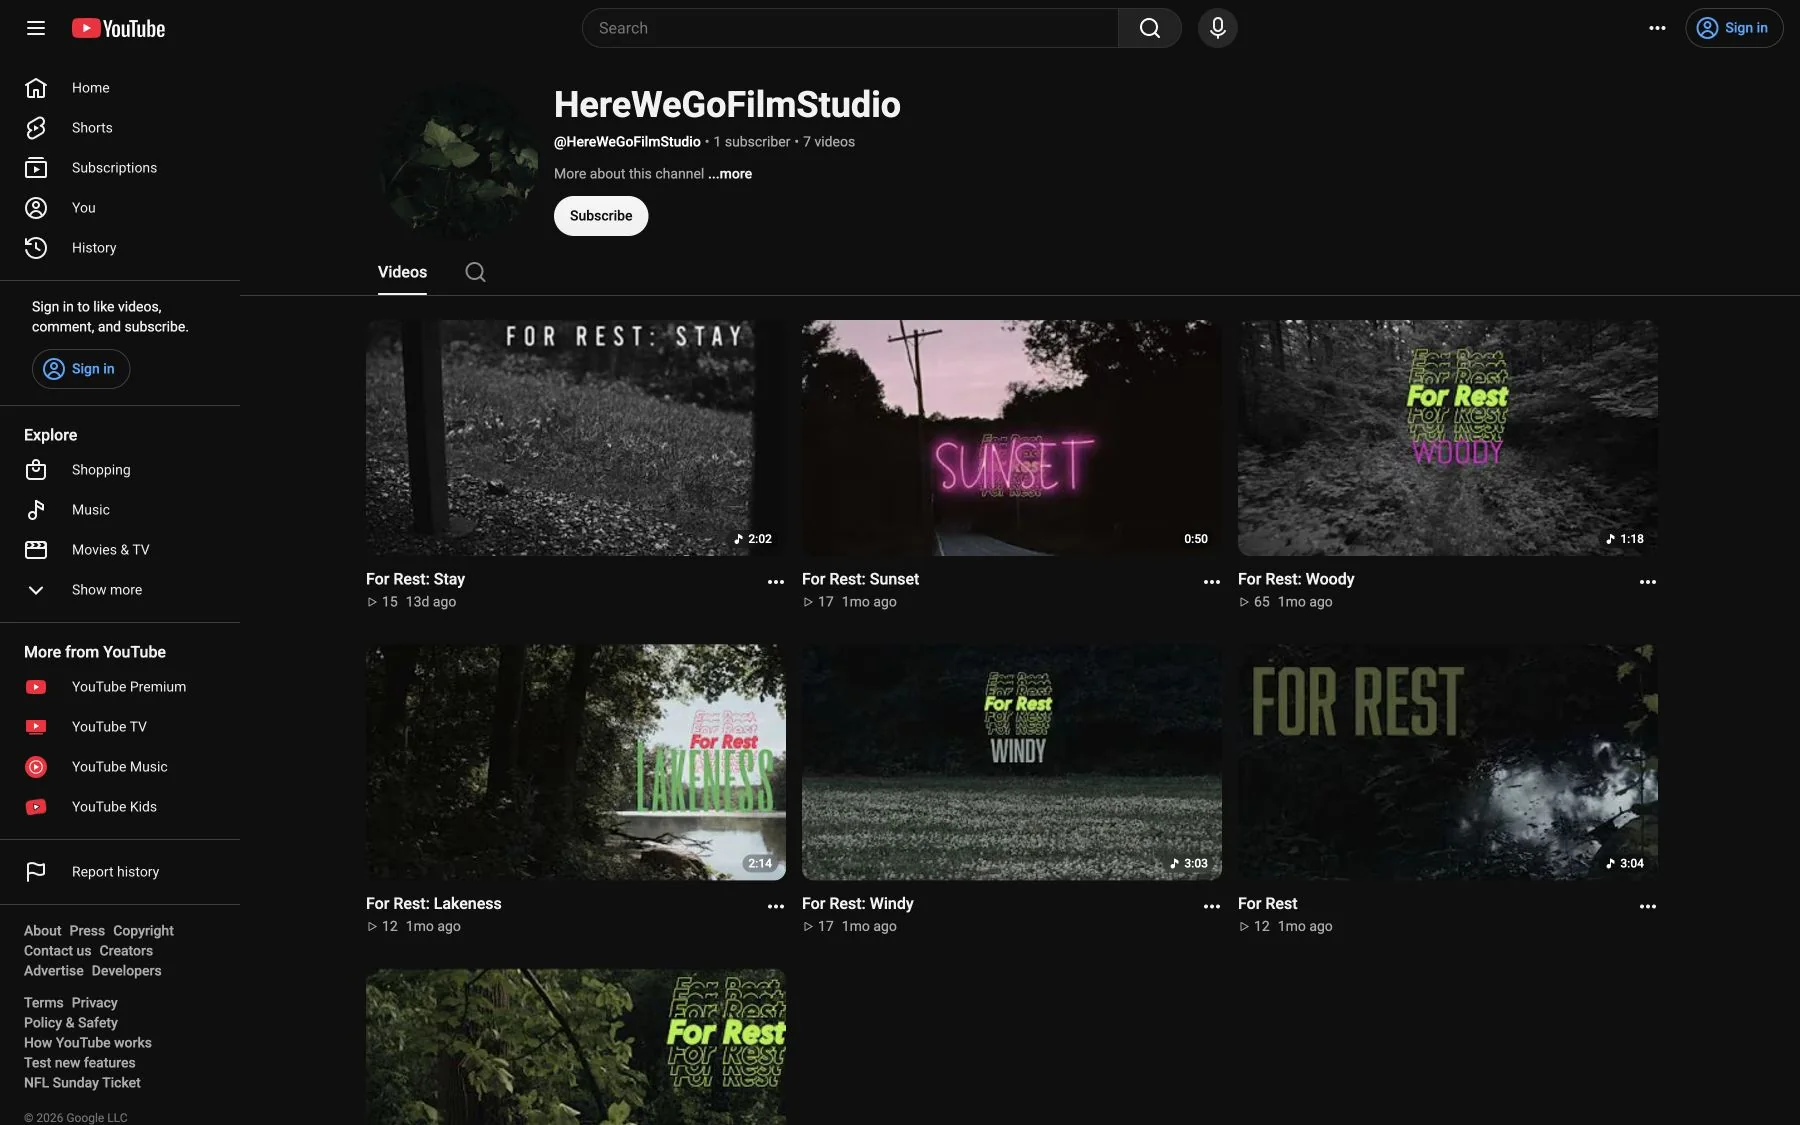
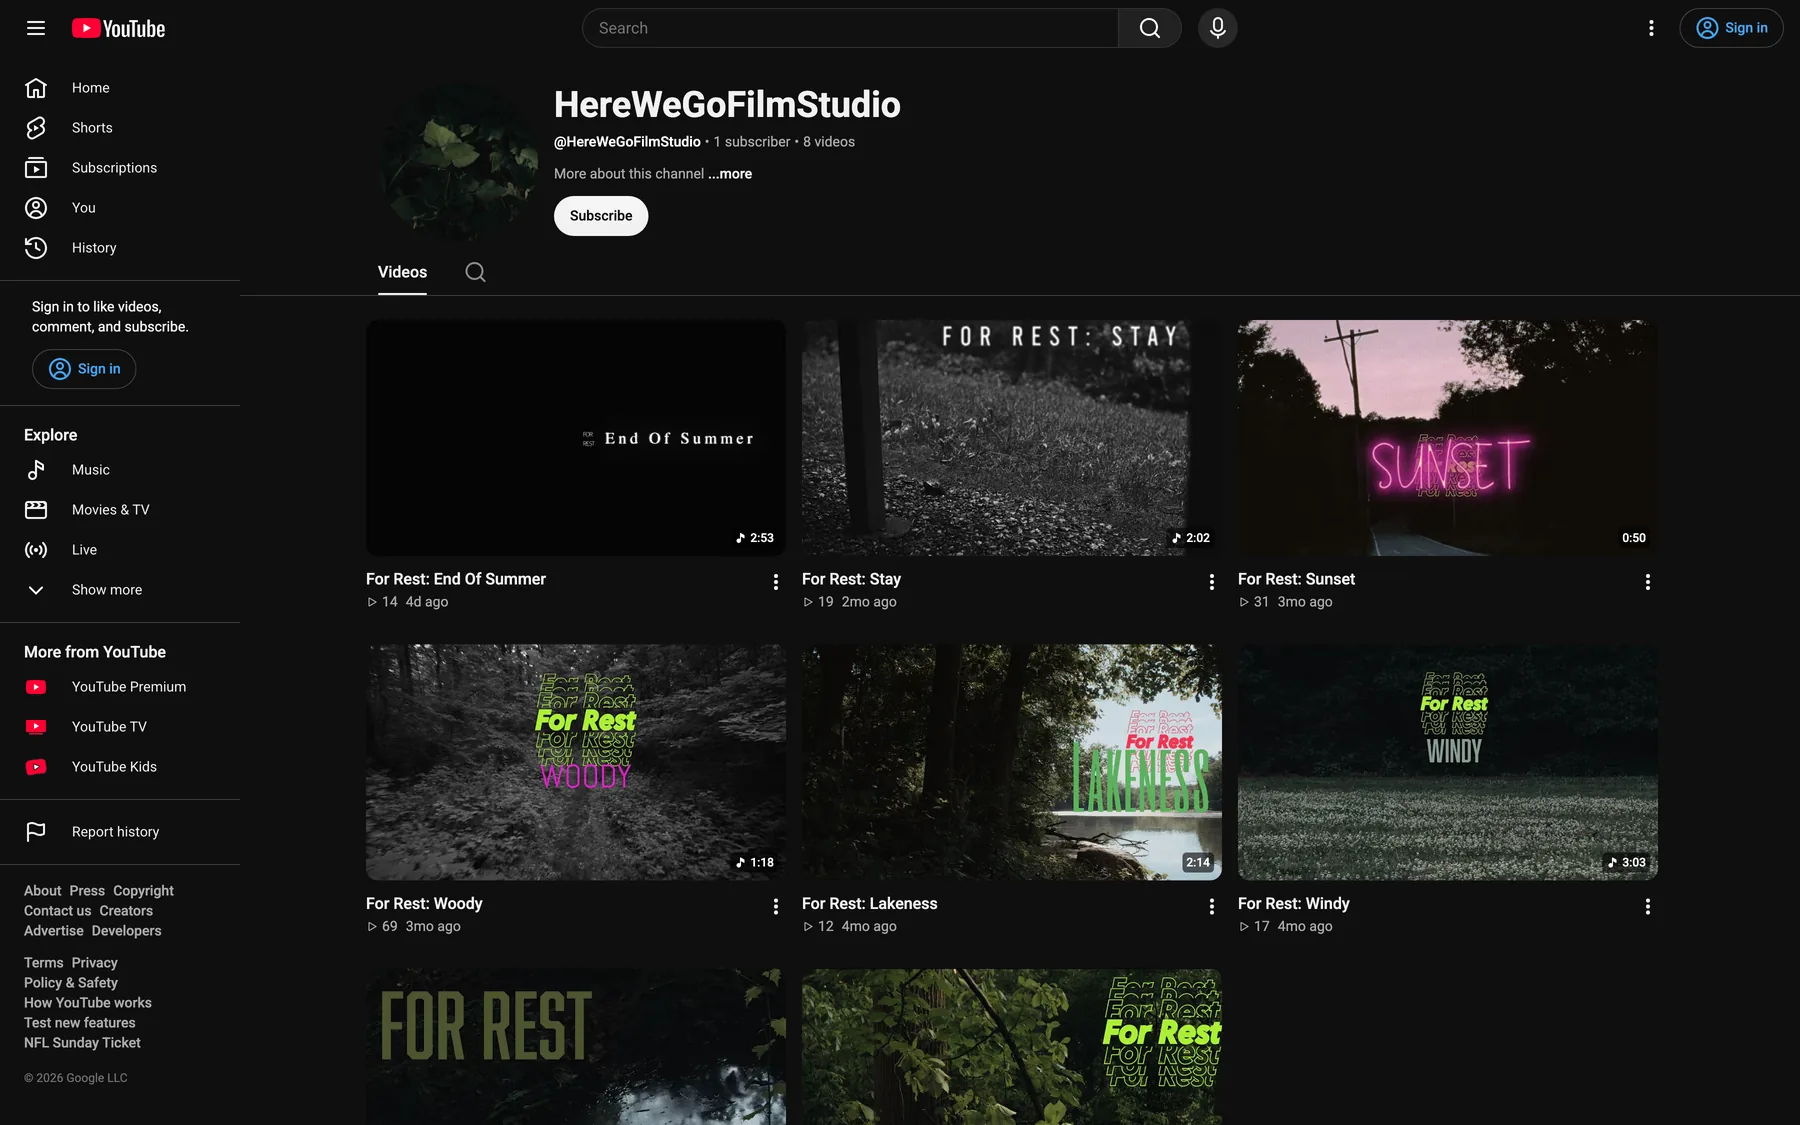
Move Here We Go to third and open the channel from its screenshot
- Here We Go Film Studio now follows Surge, on the home screen and in
  the "Up next" order
- Fresh channel screenshot with the new "For Rest: End Of Summer"
  (8 videos)
- Gallery media can link somewhere other than their own file: the
  channel screenshot opens the YouTube channel ("Open the channel ↗")
  instead of the image

diff --git a/app/projects.ts b/app/projects.ts
@@ -78,7 +78,7 @@ export type Project = {
     principles: { title: string; body: string }[];
   };
   features: { title: string; body: string }[];
-  media: { type: "image" | "video" | "youtube"; src: string; displaySrc?: string; alt: string; caption?: string; portrait?: boolean; width?: number; height?: number; chrome?: boolean; poster?: string; gallery?: boolean }[];
+  media: { type: "image" | "video" | "youtube"; src: string; displaySrc?: string; alt: string; caption?: string; portrait?: boolean; width?: number; height?: number; chrome?: boolean; poster?: string; gallery?: boolean; /** Where a click goes instead of the full-resolution file, e.g. the page the screenshot shows. */ href?: string; linkLabel?: string }[];
 };
 
 export const projects: Project[] = [
@@ -257,6 +257,61 @@ export const projects: Project[] = [
     ],
   },
   {
+    slug: "here-we-go-film-studio",
+    title: "Here We Go Film Studio",
+    shortTitle: "Here We Go",
+    category: "YouTube · Film Experiments",
+    year: "Ongoing",
+    role: "Direction, camera, edit & experiments",
+    accent: "pink",
+    externalUrl: "https://www.youtube.com/@HereWeGoFilmStudio",
+    externalLabel: "Visit the channel",
+    tagline: "The lab notebook is a movie channel.",
+    description: "A public lab for filmmaking experiments. Lenses, light, motion, texture, edits, and unfinished questions leave the hard drive and become studies.",
+    note: "Every experiment should teach the next shot.",
+    hero: {
+      src: "/media/projects/here-we-go-sunset-hero.jpg",
+      displaySrc: "/media/optimized/here-we-go-sunset-hero.webp",
+      alt: "For Rest: Sunset by Here We Go Film Studio",
+      width: 2560,
+      height: 1440,
+      position: "50% 50%",
+    },
+    featuredFilm: {
+      title: "Sunset",
+      format: "For Rest · Short film",
+      description: "Fifty seconds at the edge of day.",
+      youtubeId: "XMCr7upIROA",
+      url: "https://www.youtube.com/watch?v=XMCr7upIROA",
+      poster: "/media/optimized/here-we-go-sunset-hero.webp",
+    },
+    features: [
+      { title: "Camera as research", body: "Test exposure, movement, texture, and material by shooting." },
+      { title: "Keep the process visible", body: "Questions and imperfections stay in the work." },
+      { title: "Practice in public", body: "Technical curiosity becomes finished images and films." },
+    ],
+    media: [{
+      type: "image",
+      src: "/media/projects/here-we-go-sunset-hero.jpg",
+      displaySrc: "/media/optimized/here-we-go-sunset-hero.webp",
+      alt: "For Rest: Sunset by Here We Go Film Studio",
+      caption: "For Rest: Sunset.",
+      width: 2560,
+      height: 1440,
+    }, {
+      type: "image",
+      src: "/media/projects/channel-live.png",
+      displaySrc: "/media/optimized/channel-live.webp",
+      alt: "Here We Go Film Studio YouTube channel showing the For Rest film series",
+      caption: "The channel. A public film lab.",
+      width: 1800,
+      height: 1125,
+      chrome: false,
+      href: "https://www.youtube.com/@HereWeGoFilmStudio",
+      linkLabel: "Open the channel",
+    }],
+  },
+  {
     slug: "bebop-puzzle",
     title: "Bebop Puzzle",
     shortTitle: "Bebop",
@@ -424,59 +479,6 @@ export const projects: Project[] = [
       { title: "Tactile without images", body: "The cabinet is gradients, shadows, type, motion, and synthesized sound." },
     ],
     media: [{ type: "image", src: "/media/projects/slotronome-live.png", displaySrc: "/media/optimized/slotronome-live.webp", alt: "Slotronome running at 86 BPM", caption: "86 BPM. First beat glowing.", width: 1800, height: 1125 }],
-  },
-  {
-    slug: "here-we-go-film-studio",
-    title: "Here We Go Film Studio",
-    shortTitle: "Here We Go",
-    category: "YouTube · Film Experiments",
-    year: "Ongoing",
-    role: "Direction, camera, edit & experiments",
-    accent: "pink",
-    externalUrl: "https://www.youtube.com/@HereWeGoFilmStudio",
-    externalLabel: "Visit the channel",
-    tagline: "The lab notebook is a movie channel.",
-    description: "A public lab for filmmaking experiments. Lenses, light, motion, texture, edits, and unfinished questions leave the hard drive and become studies.",
-    note: "Every experiment should teach the next shot.",
-    hero: {
-      src: "/media/projects/here-we-go-sunset-hero.jpg",
-      displaySrc: "/media/optimized/here-we-go-sunset-hero.webp",
-      alt: "For Rest: Sunset by Here We Go Film Studio",
-      width: 2560,
-      height: 1440,
-      position: "50% 50%",
-    },
-    featuredFilm: {
-      title: "Sunset",
-      format: "For Rest · Short film",
-      description: "Fifty seconds at the edge of day.",
-      youtubeId: "XMCr7upIROA",
-      url: "https://www.youtube.com/watch?v=XMCr7upIROA",
-      poster: "/media/optimized/here-we-go-sunset-hero.webp",
-    },
-    features: [
-      { title: "Camera as research", body: "Test exposure, movement, texture, and material by shooting." },
-      { title: "Keep the process visible", body: "Questions and imperfections stay in the work." },
-      { title: "Practice in public", body: "Technical curiosity becomes finished images and films." },
-    ],
-    media: [{
-      type: "image",
-      src: "/media/projects/here-we-go-sunset-hero.jpg",
-      displaySrc: "/media/optimized/here-we-go-sunset-hero.webp",
-      alt: "For Rest: Sunset by Here We Go Film Studio",
-      caption: "For Rest: Sunset.",
-      width: 2560,
-      height: 1440,
-    }, {
-      type: "image",
-      src: "/media/projects/channel-live.png",
-      displaySrc: "/media/optimized/channel-live.webp",
-      alt: "Here We Go Film Studio YouTube channel showing the For Rest film series",
-      caption: "The channel. A public film lab.",
-      width: 1800,
-      height: 1125,
-      chrome: false,
-    }],
   },
 ];
 

diff --git a/app/projects/[slug]/page.tsx b/app/projects/[slug]/page.tsx
@@ -72,11 +72,11 @@ export default async function ProjectPage({ params }: { params: Promise<{ slug: 
                 <div className="media-chrome" aria-hidden="true"><i /><i /><i /><span>{project.title}</span></div>
               )}
               {item.type === "image" && (
-                <a className="media-image-link" href={`${base}${item.src}`} target="_blank" rel="noreferrer" aria-label={`View full resolution: ${item.alt}`}>
+                <a className="media-image-link" href={item.href ?? `${base}${item.src}`} target="_blank" rel="noreferrer" aria-label={item.href ? `${item.linkLabel ?? "Open"}: ${item.alt}` : `View full resolution: ${item.alt}`}>
                   {/* Raw screenshots keep their native aspect ratios and never render wider than their source pixels. */}
                   {/* eslint-disable-next-line @next/next/no-img-element */}
                   <img src={`${base}${item.displaySrc ?? item.src}`} alt={item.alt} width={item.width} height={item.height} loading={mediaIndex ? "lazy" : "eager"} decoding="async" />
-                  <span>Full resolution ↗</span>
+                  <span>{`${item.href ? (item.linkLabel ?? "Open") : "Full resolution"} ↗`}</span>
                 </a>
               )}
               {item.type === "video" && <video src={`${base}${item.src}`} aria-label={item.alt} controls muted loop playsInline preload="metadata" poster={item.poster ? `${base}${item.poster}` : undefined} />}
